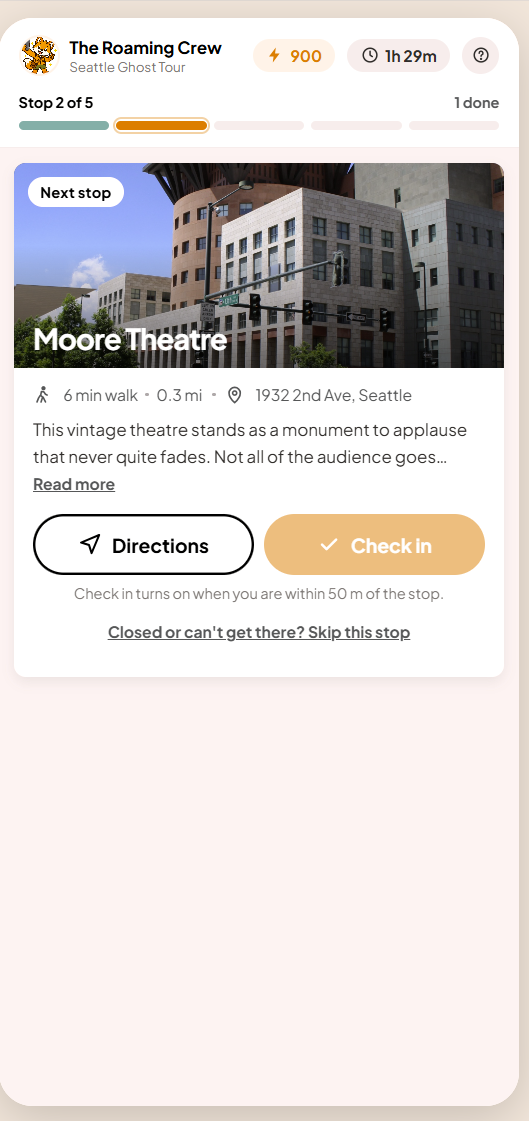
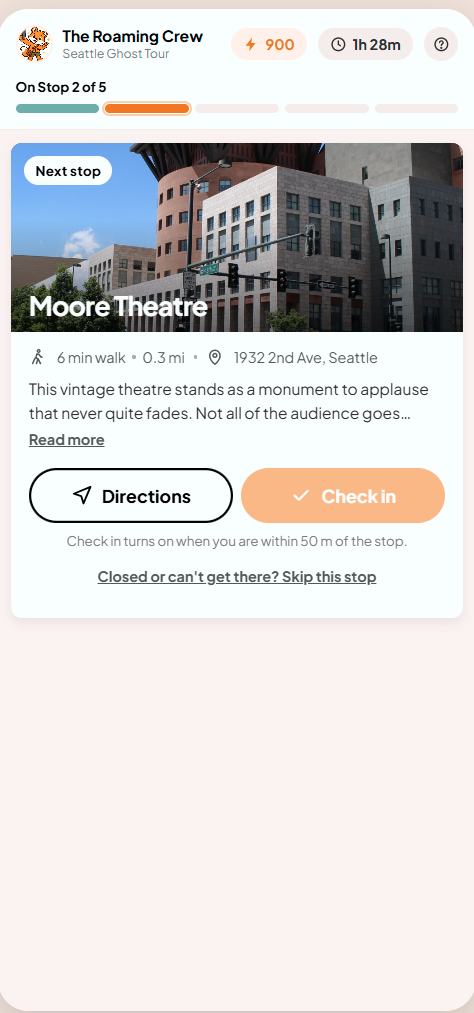
Check-in celebration keeps the card in place; route label wording; review v3 with notes between screens
Claude-Session: https://claude.ai/code/session_01HrqVtVYAoSAQxNYo5M8iSv

Changed region(s): [[0.0, 0.0, 1.0, 1.0]]

diff --git a/review-v3.html b/review-v3.html
@@ -1,0 +1,160 @@
+<!doctype html>
+<html lang="en">
+<head>
+  <meta charset="utf-8">
+  <meta name="viewport" content="width=device-width, initial-scale=1">
+  <title>Let's Roam - Hunt screen: what it needs to say (v3)</title>
+  <link rel="stylesheet" href="./styles.css">
+  <style>
+    body { background: #F6F3EE; }
+    .wrap { max-width: 1120px; margin: 0 auto; padding: 28px 16px 70px; }
+    h1 { font-size: 38px; letter-spacing: -0.04em; line-height: 1.05; margin: 0 0 8px; }
+    .lead { font-size: 17px; color: var(--lr-gray-3); font-weight: 500; line-height: 1.6; max-width: 720px; margin: 0 0 14px; }
+    .lead a { color: var(--lr-black); }
+    .cta { display: flex; gap: 10px; flex-wrap: wrap; margin: 6px 0 40px; }
+    .cta a { display: inline-flex; align-items: center; gap: 8px; padding: 12px 20px; border-radius: 50px; font-weight: 700; text-decoration: none; font-size: 15px; }
+    .cta a.primary { background: var(--lr-orange); color: #fff; }
+    .cta a.secondary { background: #fff; color: var(--lr-black); box-shadow: inset 0 0 0 2px var(--lr-black); }
+
+    .label { font-size: 13px; font-weight: 700; letter-spacing: .18em; text-transform: uppercase; color: var(--lr-orange); margin: 0 0 8px; }
+    h2 { font-size: 32px; letter-spacing: -0.04em; line-height: 1.05; margin: 0 0 18px; }
+    section { margin-bottom: 56px; }
+
+    .needs { display: grid; grid-template-columns: repeat(auto-fit, minmax(230px, 1fr)); gap: 12px; }
+    .need { background: #fff; border-radius: 12px; box-shadow: var(--shadow-card); padding: 20px 20px 18px; }
+    .need .big { font-size: 26px; font-weight: 700; letter-spacing: -0.03em; line-height: 1.1; margin: 0 0 10px; }
+    .need p { margin: 0; font-size: 15px; line-height: 1.55; font-weight: 500; color: var(--lr-gray-4); }
+    .need p b { color: var(--lr-black); }
+    .then { margin: 16px 0 0; font-size: 16px; font-weight: 600; color: var(--lr-gray-3); }
+
+    .phil { display: grid; grid-template-columns: repeat(auto-fit, minmax(300px, 1fr)); gap: 12px; }
+    .p { background: #fff; border-radius: 12px; box-shadow: var(--shadow-card); padding: 18px 20px; display: flex; gap: 14px; }
+    .p .n { flex: none; width: 34px; height: 34px; border-radius: 50%; background: var(--lr-black); color: #fff; font-weight: 800; display: grid; place-items: center; font-size: 15px; }
+    .p h3 { margin: 4px 0 6px; font-size: 19px; letter-spacing: -0.03em; }
+    .p p { margin: 0; font-size: 14.5px; line-height: 1.55; font-weight: 500; color: var(--lr-gray-4); }
+    .p.lead-p { grid-column: 1 / -1; background: var(--lr-black); color: #fff; }
+    .p.lead-p .n { background: var(--lr-orange); }
+    .p.lead-p h3 { font-size: 24px; }
+    .p.lead-p p { color: #ddd; font-size: 16px; }
+
+    /* Old | notes | new */
+    .pair { margin-bottom: 54px; }
+    .pair h3 { font-size: 24px; letter-spacing: -0.03em; margin: 0 0 14px; }
+    .trio { display: grid; grid-template-columns: minmax(220px, 300px) 1fr minmax(220px, 300px); gap: 22px; align-items: center; }
+    @media (max-width: 820px) { .trio { grid-template-columns: 1fr 1fr; } .trio .notes { grid-column: 1 / -1; order: 3; } }
+    .shot { text-align: center; }
+    .shot .tag { display: inline-block; padding: 6px 14px; border-radius: 50px; font-weight: 700; font-size: 13px; margin-bottom: 10px; }
+    .shot .tag.old { background: var(--lr-gray-light); color: var(--lr-gray-3); }
+    .shot .tag.new { background: var(--lr-off-orange); color: var(--lr-orange); }
+    .frame { border-radius: 24px; overflow: hidden; box-shadow: 0 12px 34px rgba(0,0,0,.16); background: #000; }
+    .frame img { width: 100%; display: block; }
+    .notes { align-self: center; }
+    .notes .k { font-size: 12px; font-weight: 700; letter-spacing: .16em; text-transform: uppercase; color: var(--lr-gray-3); margin: 0 0 10px; }
+    .notes ul { list-style: none; margin: 0; padding: 0; }
+    .notes li { position: relative; padding: 11px 14px 11px 44px; background: #fff; border-radius: 10px; box-shadow: var(--shadow-card); margin-bottom: 8px; font-size: 16px; font-weight: 700; letter-spacing: -0.01em; line-height: 1.3; }
+    .notes li small { display: block; font-size: 13px; font-weight: 500; color: var(--lr-gray-3); margin-top: 2px; }
+    .notes li::before { content: ""; position: absolute; left: 14px; top: 14px; width: 18px; height: 18px; border-radius: 50%; background: var(--lr-orange); }
+    .notes li::after { content: ""; position: absolute; left: 19.5px; top: 19px; width: 5px; height: 8px; border: solid #fff; border-width: 0 2.5px 2.5px 0; transform: rotate(45deg); }
+    .foot { font-size: 14px; color: var(--lr-gray-3); font-weight: 500; margin-top: 10px; }
+    .foot a { color: var(--lr-black); }
+  </style>
+</head>
+<body>
+<div class="wrap">
+  <h1>The hunt screen: what it needs to say</h1>
+  <p class="lead">People spend the whole walking tour on this one screen, usually in a group, outdoors, often at night.
+    Completion and satisfaction have dropped. Before touching pixels, this page sets out what the screen is for,
+    the rules the redesign follows, and then puts the old and new side by side.</p>
+  <div class="cta"><a class="primary" href="./index.html">Try the redesign</a><a class="secondary" href="https://github.com/mikeprimak/lets-roam-hunt">Source on GitHub</a></div>
+
+  <section>
+    <p class="label">Part one</p>
+    <h2>What this screen needs to communicate</h2>
+    <div class="needs">
+      <div class="need"><p class="big">Where do we go next?</p><p>The name of the next stop, a picture of it, and <b>how long the walk is</b>. Not "2.87 mi". "6 min walk".</p></div>
+      <div class="need"><p class="big">What do we do when we get there?</p><p><b>Check in, then do these three things.</b> Shown as a short list with a word for each: Trivia, Photo, Fill in. Not a colour code.</p></div>
+      <div class="need"><p class="big">Are we doing OK?</p><p><b>"On Stop 2 of 5"</b> and a score. That is enough. Rank, rings, timers and breakdowns can wait for the end.</p></div>
+      <div class="need"><p class="big">What if we're stuck?</p><p>A gate is locked, a question is too hard, the GPS is wrong. <b>There is always a way forward</b> and it never costs the team anything.</p></div>
+    </div>
+    <p class="then">Anything on the screen that does not answer one of those four questions has to earn its place, or go.</p>
+  </section>
+
+  <section>
+    <p class="label">Part two</p>
+    <h2>Design philosophy</h2>
+    <div class="phil">
+      <div class="p lead-p"><span class="n">1</span><div><h3>Clarity first. Reward second.</h3><p>A group standing on a pavement should know what to do in one glance. Points, the fox and the celebration matter, but they come <em>after</em> the action, never instead of it. A hunt nobody finishes has no fun in it.</p></div></div>
+      <div class="p"><span class="n">2</span><div><h3>One next action</h3><p>Every state of the screen has exactly one primary button: Directions, Check in, Submit, Let's go. If two things are orange, neither is the answer.</p></div></div>
+      <div class="p"><span class="n">3</span><div><h3>Never a dead end</h3><p>Closed stop, hard question, bad signal: each has a plain way out (skip, hint, move on) and skipping never loses points. The worst outcome is a team that gives up.</p></div></div>
+      <div class="p"><span class="n">4</span><div><h3>Nothing you can't control can cost you</h3><p>No GPS-accuracy score, no speed bonus, no countdown as the biggest number on screen. Groups that are enjoying the tour should not be punished for taking their time.</p></div></div>
+      <div class="p"><span class="n">5</span><div><h3>Say it in words</h3><p>Labels beat colour codes and mystery icons. Plain English beats game jargon. "Check in turns on when you are within 50 m" instead of a greyed-out button and a guess.</p></div></div>
+      <div class="p"><span class="n">6</span><div><h3>One layer deep</h3><p>The main screen is home. At most one sheet slides over it, and closing it always lands you back where you were. No modal on a sheet on a modal.</p></div></div>
+      <div class="p"><span class="n">7</span><div><h3>Checking in is the win</h3><p>Arriving is the accomplishment, so the check-in itself gets the celebration: the button pops, confetti, the points land, and the challenges slide up from the same card. The place and its challenges stay one thing.</p></div></div>
+      <div class="p"><span class="n">8</span><div><h3>Use the brand as given</h3><p>One typeface, one orange, one icon style, the fox. No emoji, no fourth font. Consistency reads as "finished", and finished reads as trustworthy.</p></div></div>
+    </div>
+  </section>
+
+  <section>
+    <p class="label">Part three</p>
+    <h2>Current screen vs redesign</h2>
+
+    <div class="pair">
+      <h3>On the way to a stop</h3>
+      <div class="trio">
+        <div class="shot"><span class="tag old">Current</span><div class="frame"><img src="./assets/current/screen-04.png" alt="Current main hunt screen"></div></div>
+        <div class="notes">
+          <p class="k">What changed</p>
+          <ul>
+            <li>One stop, one button<small>not five identical cards and a toggle</small></li>
+            <li>"6 min walk", not "2.87 mi"</li>
+            <li>"On Stop 2 of 5"<small>replaces the ring, the rank and the ghost line</small></li>
+            <li>Score and time are small pills<small>rules moved to the help button</small></li>
+            <li>Check in unlocks on arrival<small>and says so in words</small></li>
+            <li>Closed? Skip the stop, keep points</li>
+          </ul>
+        </div>
+        <div class="shot"><span class="tag new">Redesign</span><div class="frame"><img src="./assets/redesign/next-stop.png" alt="Redesign, on the way to a stop"></div></div>
+      </div>
+    </div>
+
+    <div class="pair">
+      <h3>At the stop</h3>
+      <div class="trio">
+        <div class="shot"><span class="tag old">Current</span><div class="frame"><img src="./assets/current/screen-08.png" alt="Current challenge list sheet"></div></div>
+        <div class="notes">
+          <p class="k">What changed</p>
+          <ul>
+            <li>Same card, button turns "Checked in"<small>with a burst, the way a like button rewards you</small></li>
+            <li>Challenges slide up under it<small>so they read as part of this place</small></li>
+            <li>Word labels: Trivia, Photo, Fill in<small>no colour code to decode</small></li>
+            <li>Points and a done state per row</li>
+            <li>No third sheet, no chips<small>"Completed Stop 1 of 5" up top</small></li>
+          </ul>
+        </div>
+        <div class="shot"><span class="tag new">Redesign</span><div class="frame"><img src="./assets/redesign/at-stop.png" alt="Redesign, checked in with the challenge list"></div></div>
+      </div>
+    </div>
+
+    <div class="pair">
+      <h3>After the stop</h3>
+      <div class="trio">
+        <div class="shot"><span class="tag old">Current</span><div class="frame"><img src="./assets/current/screen-11.png" alt="Current location complete modal"></div></div>
+        <div class="notes">
+          <p class="k">What changed</p>
+          <ul>
+            <li>Points first, then the next stop<small>with its walk time</small></li>
+            <li>One button: Let's go<small>not "Show Challenges"</small></li>
+            <li>Fox, no emoji</li>
+            <li>No score breakdown<small>the lore stays on the stop card</small></li>
+            <li>Card, not a modal<small>the screen underneath is still home</small></li>
+          </ul>
+        </div>
+        <div class="shot"><span class="tag new">Redesign</span><div class="frame"><img src="./assets/redesign/stop-done.png" alt="Redesign, stop done card with the next stop"></div></div>
+      </div>
+    </div>
+
+    <p class="foot">Earlier versions: <a href="./review-v2.html">v2</a> (the same argument with a full comparison table) and <a href="./review.html">v1</a> (screen-by-screen comments on the current design). Measurement plan and next steps are in the <a href="https://github.com/mikeprimak/lets-roam-hunt/blob/main/DESIGN_REVIEW.md">written review</a>.</p>
+  </section>
+</div>
+</body>
+</html>

diff --git a/app.js b/app.js
@@ -24,7 +24,8 @@
     view: "hunt",             // "hunt" | "map"
     huntDone: false,
     toast: null,
-    loreOpen: false
+    loreOpen: false,
+    anim: null                // one-shot animation flag, consumed by the next render
   });
   let state = initial();
 
@@ -74,13 +75,13 @@
       if (!state.arrived || state.checkedIn[stop.locationId]) return;
       state.checkedIn[stop.locationId] = true;
       state.score += SCORING.checkIn;
-      toast(`Checked in at ${stop.name}`, "check");
+      state.anim = "checkin";
       bumpScore();
     },
     openChallenge(id) {
       state.sheet = { type: "challenge", id, selected: null, input: "", hint: false, feedback: null, photo: false, tries: 0 };
     },
-    closeSheet() { state.sheet = null; },
+    closeSheet() { if (state.sheet && state.sheet.type === "challenge" && stopResolved(currentStop())) state.anim = "stopdone"; state.sheet = null; },
     select(i) { if (state.sheet && !state.sheet.feedback) state.sheet.selected = i; },
     useHint() {
       const s = state.sheet; if (!s || s.hint || (s.feedback && !s.feedback.retry)) return;
@@ -131,6 +132,7 @@
     },
     nextChallenge() {
       const stop = currentStop();
+      if (stopResolved(stop)) state.anim = "stopdone";
       const next = challengesOf(stop).find((c) => !resolved(c.challengeId) && !c.optional) || challengesOf(stop).find((c) => !resolved(c.challengeId));
       if (next) A.openChallenge(next.challengeId); else state.sheet = null;
     },
@@ -199,7 +201,7 @@
     const doneCount = STOPS.filter((s) => state.stopStatus[s.locationId]).length;
     return `
       <div class="route">
-        <div class="label"><span><b>Stop ${Math.min(state.stopIdx + 1, STOPS.length)} of ${STOPS.length}</b></span><span>${doneCount} done</span></div>
+        <div class="label"><span><b>${state.huntDone ? "Completed all" : state.checkedIn[currentStop().locationId] ? "Completed Stop" : "On Stop"} ${Math.min(state.stopIdx + 1, STOPS.length)} of ${STOPS.length}</b></span></div>
         <div class="steps" role="progressbar" aria-valuenow="${doneCount}" aria-valuemax="${STOPS.length}">
           ${STOPS.map((s, i) => {
             const st = state.stopStatus[s.locationId];
@@ -210,8 +212,20 @@
       </div>`;
   }
 
-  function viewTravel(stop) {
+  function viewStopCard(stop, anim) {
+    const checked = !!state.checkedIn[stop.locationId];
     const walk = stop.walkMinutes > 0 ? `${I.walk}${stop.walkMinutes} min walk<span class="dot"></span>${stop.walkMiles} mi` : `${I.pin}Starting point`;
+    const required = challengesOf(stop).filter((c) => !c.optional).length;
+    const burst = anim === "checkin" ? `<span class="burst" aria-hidden="true">${Array.from({ length: 14 }, (_, i) => `<i style="--a:${Math.round(i * (360 / 14))}deg;--d:${44 + (i % 3) * 14}px;--c:${["#E87722", "#FDD264", "#6AAEAA"][i % 3]}"></i>`).join("")}</span>` : "";
+    let button, note;
+    if (checked) {
+      button = `<button class="btn checked ${anim === "checkin" ? "pop" : ""}" disabled>${I.check}Checked in${burst}</button>`;
+      note = `<p class="cta-note"><b class="earned-note ${anim === "checkin" ? "rise" : ""}">+${SCORING.checkIn} pts</b> · now the ${required} challenges below</p>`;
+    } else {
+      button = `<button class="btn primary" data-action="checkIn" ${state.arrived ? "" : "disabled"}>${I.check}Check in</button>`;
+      note = `<p class="cta-note">${state.arrived ? `Check in to unlock ${required} challenges and earn +${SCORING.checkIn} pts` : "Check in turns on when you are within 50 m of the stop."}</p>
+          <p class="cta-note"><button class="linkbtn" data-action="openSkipStop">Closed or can't get there? Skip this stop</button></p>`;
+    }
     return `
       <section class="card">
         <div class="stop-photo">
@@ -225,14 +239,15 @@
           <p class="lore ${state.loreOpen ? "" : "clamp"}">${esc(stop.description)}</p>
           <button class="linkbtn" data-action="toggleLore">${state.loreOpen ? "Less" : "Read more"}</button>
           <div class="btn-row">
-            ${state.arrived ? "" : `<button class="btn secondary" data-action="showMap">${I.nav}Directions</button>`}
-            <button class="btn primary" data-action="checkIn" ${state.arrived ? "" : "disabled"}>${I.check}${state.arrived ? "Check in" : "Check in"}</button>
+            ${state.arrived || checked ? "" : `<button class="btn secondary" data-action="showMap">${I.nav}Directions</button>`}
+            ${button}
           </div>
-          <p class="cta-note">${state.arrived ? `Check in to unlock ${challengesOf(stop).filter((c) => !c.optional).length} challenges and earn +${SCORING.checkIn} pts` : "Check in turns on when you are within 50 m of the stop."}</p>
-          <p class="cta-note"><button class="linkbtn" data-action="openSkipStop">Closed or can't get there? Skip this stop</button></p>
+          ${note}
         </div>
       </section>`;
   }
+
+  function viewTravel(stop, anim) { return viewStopCard(stop, anim); }
 
   function viewChallengeRow(c) {
     const r = state.results[c.challengeId];
@@ -251,29 +266,19 @@
       </button>`;
   }
 
-  function viewAtStop(stop) {
+  function viewAtStop(stop, anim) {
     const list = challengesOf(stop);
     const required = list.filter((c) => !c.optional);
     const doneCount = required.filter((c) => resolved(c.challengeId)).length;
     const complete = stopResolved(stop);
     return `
+      ${viewStopCard(stop, anim)}
       ${complete ? viewStopComplete(stop) : ""}
-      <section class="card">
-        <div class="stop-compact">
-          <img src="${stop.photo}" alt="">
-          <div>
-            <div class="sub">${I.check} Checked in · +${SCORING.checkIn} pts</div>
-            <h2>${esc(stop.name)}</h2>
-          </div>
-        </div>
-        <div class="card-body" style="padding-top:0">
-          <p class="lore ${state.loreOpen ? "" : "clamp"}" style="margin-top:0">${esc(stop.description)}</p>
-          <button class="linkbtn" data-action="toggleLore">${state.loreOpen ? "Less" : "Read more"}</button>
-        </div>
-      </section>
-      <div class="section-head"><h3>Challenges here</h3><span class="count">${doneCount} of ${required.length} done</span></div>
-      ${list.map(viewChallengeRow).join("")}
-      <div class="spacer-bottom"></div>`;
+      <div class="challenges ${anim === "checkin" ? "slide-in" : ""}">
+        <div class="section-head"><h3>Challenges here</h3><span class="count">${doneCount} of ${required.length} done</span></div>
+        ${list.map(viewChallengeRow).join("")}
+        <div class="spacer-bottom"></div>
+      </div>`;
   }
 
   function viewStopComplete(stop) {
@@ -317,12 +322,12 @@
       <div class="spacer-bottom"></div>`;
   }
 
-  function viewHunt() {
+  function viewHunt(anim) {
     const stop = currentStop();
     let body;
     if (state.huntDone) body = viewHuntDone();
-    else if (state.checkedIn[stop.locationId]) body = viewAtStop(stop);
-    else body = viewTravel(stop);
+    else if (state.checkedIn[stop.locationId]) body = viewAtStop(stop, anim);
+    else body = viewTravel(stop, anim);
     return `${viewTopbar()}<main class="screen">${viewRoute()}${body}</main>`;
   }
 
@@ -464,8 +469,11 @@
   function render() {
     const scrollEl = root.querySelector(".screen");
     const scrollTop = scrollEl ? scrollEl.scrollTop : 0;
-    root.innerHTML = viewHunt() + (state.view === "map" ? viewMap() : "") + viewSheet() + viewToast();
+    const anim = state.anim; state.anim = null;
+    root.innerHTML = viewHunt(anim) + (state.view === "map" ? viewMap() : "") + viewSheet() + viewToast();
     const s2 = root.querySelector(".screen"); if (s2) s2.scrollTop = scrollTop;
+    if (anim === "checkin") setTimeout(() => { const el = root.querySelector(".challenges"); if (el) el.scrollIntoView({ behavior: "smooth", block: "start" }); }, 900);
+    if (anim === "stopdone") setTimeout(() => { const el = root.querySelector(".celebrate"); if (el) el.scrollIntoView({ behavior: "smooth", block: "center" }); }, 150);
     const input = root.querySelector("#answer"); if (input && !input.disabled && state.sheet && !state.sheet.feedback) input.focus({ preventScroll: true });
     updateDemoBar();
   }

diff --git a/styles.css b/styles.css
@@ -160,6 +160,22 @@ img { display: block; max-width: 100%; }
 .btn.secondary:hover { background: var(--lr-gray-light); }
 .btn.dark { background: var(--lr-black); color: #fff; }
 .btn.dark:hover { background: var(--lr-gray-4); }
+.btn.checked { background: var(--lr-teal); color: #fff; position: relative; overflow: visible; }
+.btn.checked:disabled { opacity: 1; cursor: default; }
+.btn.checked.pop { animation: pop 600ms cubic-bezier(.2,.9,.3,1.4); }
+@keyframes pop { 0% { transform: scale(.92); } 45% { transform: scale(1.08); } 100% { transform: scale(1); } }
+.burst { position: absolute; left: 50%; top: 50%; width: 0; height: 0; pointer-events: none; }
+.burst i {
+  position: absolute; left: -4px; top: -4px; width: 8px; height: 8px; border-radius: 50%; background: var(--c);
+  transform: rotate(var(--a)) translateX(0); opacity: 0; animation: fly 750ms ease-out forwards;
+}
+.burst i:nth-child(odd) { width: 6px; height: 6px; border-radius: 2px; }
+@keyframes fly { 0% { opacity: 1; transform: rotate(var(--a)) translateX(10px) scale(1); } 100% { opacity: 0; transform: rotate(var(--a)) translateX(var(--d)) scale(.3); } }
+.earned-note { color: var(--lr-orange); display: inline-block; }
+.earned-note.rise { animation: risein 500ms 200ms ease both; }
+@keyframes risein { from { opacity: 0; transform: translateY(8px); } }
+.challenges.slide-in { animation: slideup 550ms 250ms cubic-bezier(.2,.8,.2,1) both; }
+@keyframes slideup { from { opacity: 0; transform: translateY(40px); } }
 .btn.ghost { background: var(--lr-gray-light); color: var(--lr-gray-4); }
 .btn.sm { padding: 10px 14px; font-size: 14px; width: auto; }
 .btn-row { display: flex; gap: 8px; margin-top: 14px; }

diff --git a/index.html b/index.html
@@ -14,7 +14,7 @@
     <span class="spacer"></span>
     <button id="demo-arrive" class="primary">Simulate GPS: arrive</button>
     <button id="demo-reset">Reset</button>
-    <a href="./review-v2.html">Design review</a>
+    <a href="./review-v3.html">Design review</a>
     <a href="./review.html">Screen-by-screen comments</a>
   </div>
 

diff --git a/README.md b/README.md
@@ -3,7 +3,8 @@
 Frontend developer project for Let's Roam. A review of the current hunt screen, a redesign, and a working demo.
 
 - **Live demo:** https://lets-roam-hunt.vercel.app
-- **Design review (what the screen must say, the principles, old vs new):** https://lets-roam-hunt.vercel.app/review-v2.html
+- **Design review (what the screen must say, the principles, old vs new):** https://lets-roam-hunt.vercel.app/review-v3.html
+- Earlier versions kept for reference: [v2](https://lets-roam-hunt.vercel.app/review-v2.html) (with the full comparison table)
 - **Screen-by-screen comments on the current design (v1):** https://lets-roam-hunt.vercel.app/review.html
 - **Written review with reasoning:** [DESIGN_REVIEW.md](./DESIGN_REVIEW.md)
 - **AI transcript:** [AI_CONVERSATION_TRANSCRIPT.md](./AI_CONVERSATION_TRANSCRIPT.md)
@@ -37,8 +38,9 @@ stands in for the GPS: **Simulate GPS: arrive**. In the app that event comes fro
 1. **Travel state.** One current-stop card: photo, "Next stop" badge, walk time, one-line lore, Directions and a
    Check in button that is disabled until you arrive, with the reason written under it. "Skip this stop" is always
    there for closed locations.
-2. **Check in.** Flat +500, confirmed inline. The challenges for that stop appear under the card with a word label
-   (Trivia, Photo, Fill in), points and state.
+2. **Check in.** Flat +500. The card stays put: the button pops into a teal "Checked in" with a burst of confetti, the
+   points land under it, and the challenges slide up from below so they read as part of this place. Each has a word
+   label (Trivia, Photo, Fill in), points and state.
 3. **Challenges.** One bottom sheet, never stacked. Multiple choice, fill-in and photo. Two tries, a hint that costs
    25 points, a free skip, then the answer is revealed and "Next challenge" moves on inside the same sheet.
 4. **Stop done.** A celebration card with the points earned, the fox, the next stop and its walk time, and
@@ -56,7 +58,8 @@ index.html        the demo page (phone frame + demo bar)
 app.js            the screen: one state object, one render(), named actions
 hunt-data.js      hunt content, same shape as the current app's HUNT_DATA
 styles.css        design-system tokens and components
-review-v2.html    design review: what the screen must say, principles, old vs new
+review-v3.html    design review: what the screen must say, principles, old vs new
+review-v2.html    v2: same, with a full comparison table
 review.html       v1: screen-by-screen comments on the current design
 DESIGN_REVIEW.md  the review, the changes, and what to measure
 assets/           fonts, mascot and ghost art, current-design screenshots
